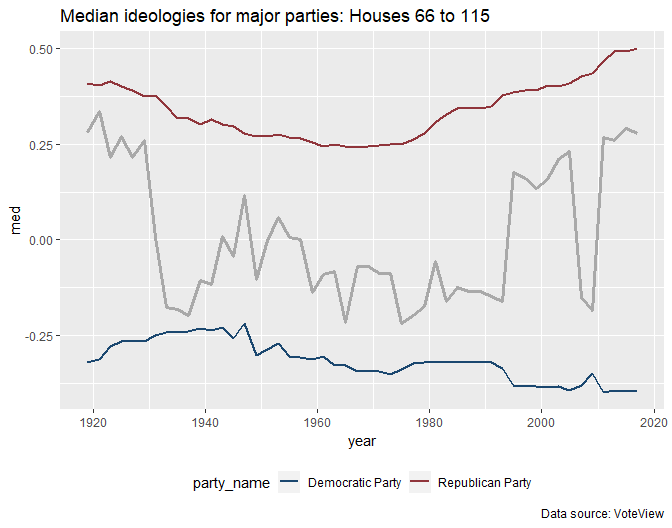
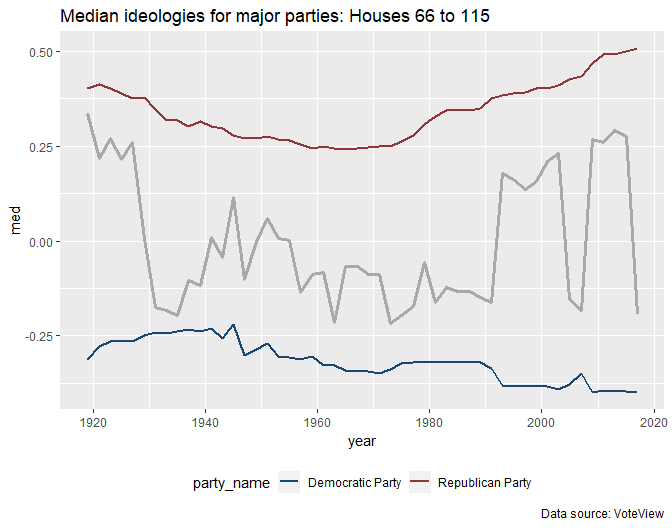
Jan 7, 2019

diff --git a/README.md b/README.md
@@ -146,7 +146,7 @@ csusa_house_dets %>%
 > The [VoteView](https://voteview.com/) project provides roll call-based political ideology scores for all lawmakers in the history of the US Congress. Data can be used to investigate congressional composition by party affiliation over time, the aggregate political ideologies of both houses over time, and the ideologies of individual lawmakers. And any number of other roll call-based analyses. The R package `Rvoteview` provides access to these data.
 
 ``` r
-rvoteview_house_50 <- lapply(c(66:115), function (x)
+rvoteview_house_50 <- lapply(c(66:116), function (x)
                     Rvoteview::member_search (
                       chamber = 'House', 
                       congress = x)) %>% 
@@ -160,7 +160,8 @@ rvoteview_house_50 <- lapply(c(66:115), function (x)
 
 ``` r
 rvoteview_house_50 %>%
-  filter(party_name %in% c('Democratic Party', 'Republican Party')) %>%
+  filter(party_name %in% c('Democratic Party', 'Republican Party') &
+      congress > 66) %>%
   group_by(congress, party_name) %>%
   summarize(n = n()) %>%
   mutate(n = n/sum(n)) %>%
@@ -175,7 +176,7 @@ rvoteview_house_50 %>%
            color = 'white',
            size = 4) +
   theme(legend.position = "none")+
-  labs(title = "House Composition over the last 50 congresses",
+  labs(title = "House Composition over the last 50 congresses (67 to 116)",
        caption = 'Data source: VoteView')
 ```
 
@@ -235,7 +236,8 @@ rvoteview_house_50 %>%
 ``` r
 rvoteview_house_50 %>%
   filter(!is.na(nominate.dim1) & 
-           party_name %in% c('Democratic Party','Republican Party')) %>%
+           party_name %in% c('Democratic Party','Republican Party')&
+           congress > 66) %>%
   group_by(congress) %>%
   mutate(xmed = median(nominate.dim1)) %>%
   group_by(congress, party_name, xmed) %>%
